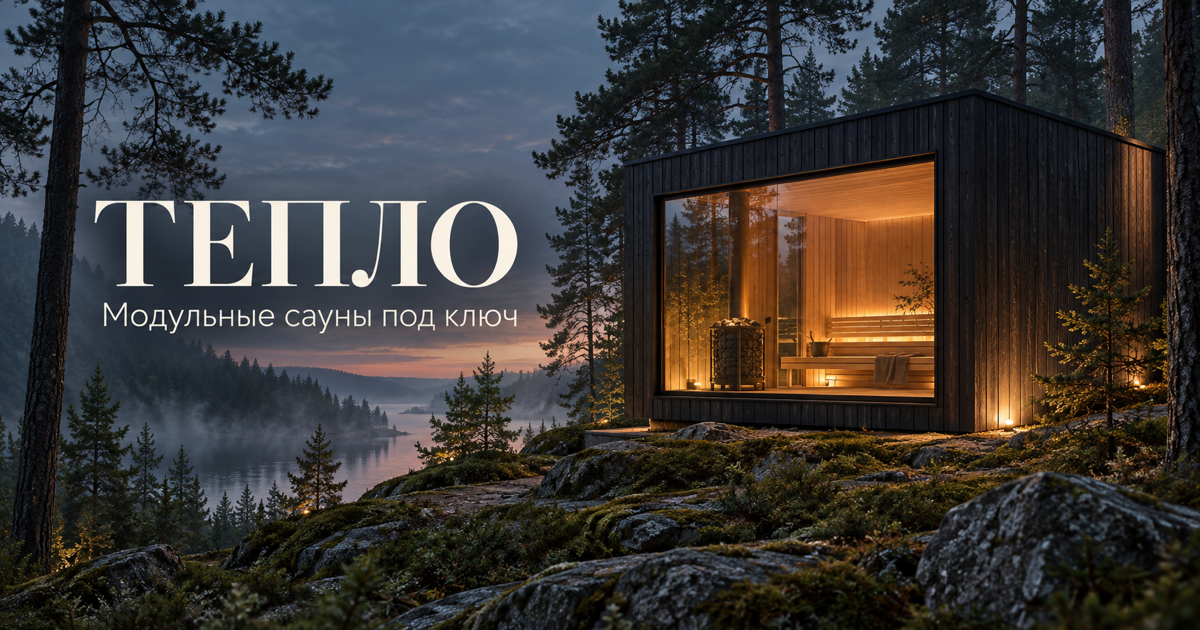
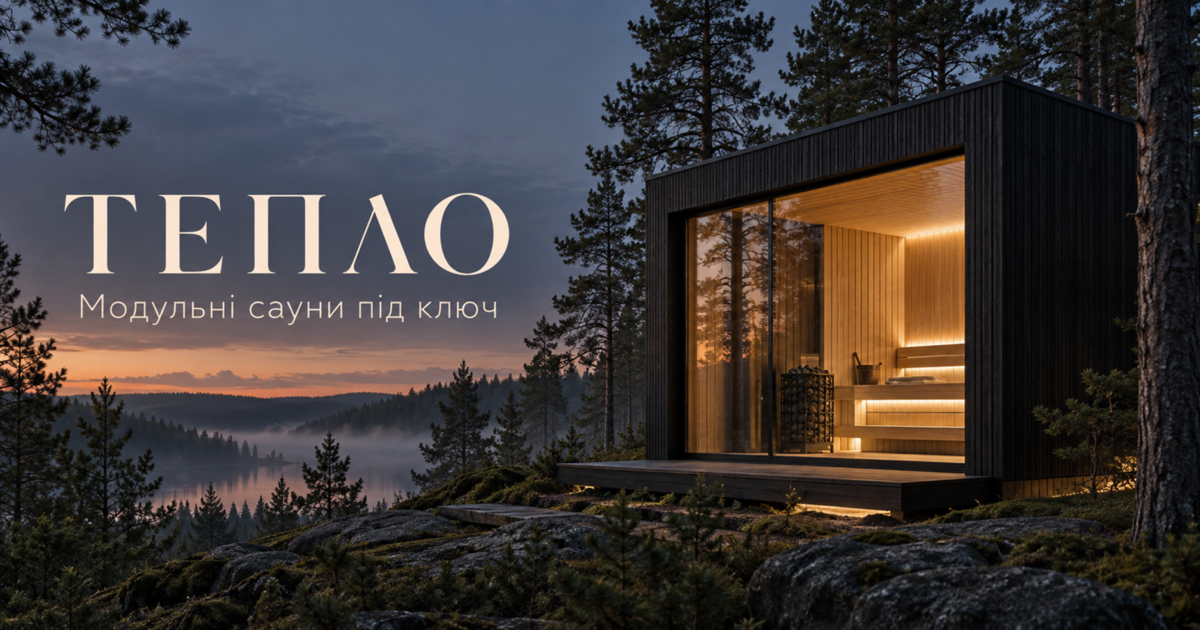
Localize sauna landing page for Ukraine

diff --git a/app/page.tsx b/app/page.tsx
@@ -4,22 +4,22 @@ import { useState } from 'react';
 import { ArrowDown, ArrowRight, ArrowUpRight, Check, Flame, Leaf, Menu, Ruler, ShieldCheck, Sparkles, X } from 'lucide-react';
 
 const models = [
-  { name: 'Тайга 12', area: '12 м²', people: 'до 4 человек', price: 'от 1 890 000 ₽', image: '/images/sauna-exterior.jpg', tag: 'Бестселлер' },
-  { name: 'Север 18', area: '18 м²', people: 'до 6 человек', price: 'от 2 490 000 ₽', image: '/images/sauna-panoramic.jpg', tag: 'Панорамная' },
-  { name: 'Терра 24', area: '24 м²', people: 'до 8 человек', price: 'от 3 290 000 ₽', image: '/images/sauna-dark.jpg', tag: 'С террасой' },
+  { name: 'Карпати 12', area: '12 м²', people: 'до 4 осіб', price: 'від 790 000 ₴', image: '/images/sauna-exterior.jpg', tag: 'Бестселер' },
+  { name: 'Полісся 18', area: '18 м²', people: 'до 6 осіб', price: 'від 1 090 000 ₴', image: '/images/sauna-panoramic.jpg', tag: 'Панорамна' },
+  { name: 'Терра 24', area: '24 м²', people: 'до 8 осіб', price: 'від 1 390 000 ₴', image: '/images/sauna-dark.jpg', tag: 'З терасою' },
 ];
 
 const steps = [
-  ['01', 'Знакомимся', 'Узнаём о вашем участке, сценариях отдыха и пожеланиях к архитектуре.'],
-  ['02', 'Проектируем', 'Адаптируем планировку, материалы и комплектацию. Фиксируем смету.'],
-  ['03', 'Производим', 'Собираем модуль в тёплом цеху с контролем качества на каждом этапе.'],
-  ['04', 'Доставляем', 'Устанавливаем, подключаем коммуникации и проводим первый запуск.'],
+  ['01', 'Знайомимося', 'Дізнаємося про вашу ділянку, сценарії відпочинку та побажання до архітектури.'],
+  ['02', 'Проєктуємо', 'Адаптуємо планування, матеріали й комплектацію. Фіксуємо фінальну вартість.'],
+  ['03', 'Виготовляємо', 'Збираємо модуль у теплому цеху та перевіряємо якість на кожному етапі.'],
+  ['04', 'Доставляємо', 'Встановлюємо, підключаємо комунікації та проводимо перший запуск.'],
 ];
 
 export default function Home() {
   const [menuOpen, setMenuOpen] = useState(false);
   const [sent, setSent] = useState(false);
-  const [selected, setSelected] = useState('Тайга 12');
+  const [selected, setSelected] = useState('Карпати 12');
 
   function submitForm(e: React.FormEvent<HTMLFormElement>) {
     e.preventDefault();
@@ -31,60 +31,60 @@ export default function Home() {
       <section className="hero" id="top">
         <div className="hero-image" aria-hidden="true" /><div className="hero-shade" aria-hidden="true" />
         <header className="site-header shell">
-          <a className="brand" href="#top" aria-label="Тепло — на главную"><span className="brand-mark">Т</span><span>ТЕПЛО</span></a>
-          <nav className="desktop-nav" aria-label="Основная навигация"><a href="#models">Модели</a><a href="#process">Как мы работаем</a><a href="#about">О производстве</a></nav>
-          <a className="header-cta" href="#contact">Обсудить проект <ArrowUpRight size={16} /></a>
-          <button className="menu-btn" onClick={() => setMenuOpen(!menuOpen)} aria-label="Открыть меню" aria-expanded={menuOpen}>{menuOpen ? <X /> : <Menu />}</button>
+          <a className="brand" href="#top" aria-label="Тепло — на головну"><span className="brand-mark">Т</span><span>ТЕПЛО</span></a>
+          <nav className="desktop-nav" aria-label="Основна навігація"><a href="#models">Моделі</a><a href="#process">Як ми працюємо</a><a href="#about">Про виробництво</a></nav>
+          <a className="header-cta" href="#contact">Обговорити проєкт <ArrowUpRight size={16} /></a>
+          <button className="menu-btn" onClick={() => setMenuOpen(!menuOpen)} aria-label="Відкрити меню" aria-expanded={menuOpen}>{menuOpen ? <X /> : <Menu />}</button>
         </header>
-        {menuOpen && <nav className="mobile-menu"><a onClick={() => setMenuOpen(false)} href="#models">Модели</a><a onClick={() => setMenuOpen(false)} href="#process">Процесс</a><a onClick={() => setMenuOpen(false)} href="#contact">Получить расчёт</a></nav>}
+        {menuOpen && <nav className="mobile-menu"><a onClick={() => setMenuOpen(false)} href="#models">Моделі</a><a onClick={() => setMenuOpen(false)} href="#process">Як ми працюємо</a><a onClick={() => setMenuOpen(false)} href="#contact">Отримати розрахунок</a></nav>}
         <div className="hero-content shell">
-          <div className="hero-kicker"><span /> Модульные сауны с доставкой</div>
-          <h1>Тишина,<br />собранная<br />из дерева.</h1>
-          <div className="hero-bottom"><p>Создаём архитектурные сауны под ключ — от первого эскиза до первого пара на вашем участке.</p><a className="primary-btn" href="#contact">Получить расчёт <ArrowUpRight size={18} /></a></div>
+          <div className="hero-kicker"><span /> Виготовлення та доставка по Україні</div>
+          <h1>Тиша,<br />створена<br />з дерева.</h1>
+          <div className="hero-bottom"><div><p>Архітектурні модульні сауни під ключ — готові до першого пару вже за 30 днів.</p><div className="hero-proof"><Check size={15} /> Вартість фіксуємо в договорі</div></div><a className="primary-btn" href="#contact">Отримати прорахунок <ArrowUpRight size={18} /></a></div>
         </div>
-        <a className="scroll-cue" href="#models" aria-label="Прокрутить к моделям"><ArrowDown size={18} /></a><div className="hero-index">01 <span>/</span> 04</div>
+        <a className="scroll-cue" href="#models" aria-label="Перейти до моделей"><ArrowDown size={18} /></a><div className="hero-index">01 <span>/</span> 04</div>
       </section>
 
       <section className="intro shell" id="about">
-        <p className="eyebrow">Продумано до мелочей</p><h2>Не просто сауна.<br /><em>Ваше место силы.</em></h2>
-        <div className="intro-grid"><p>Мы соединяем северную традицию, современную архитектуру и точное производство. Сауна приезжает на участок готовой — вам остаётся только замедлиться.</p><div className="stat"><strong>30</strong><span>дней<br />до установки</span></div><div className="stat"><strong>5</strong><span>лет<br />гарантии</span></div></div>
+        <p className="eyebrow">Продумано до деталей</p><h2>Не просто сауна.<br /><em>Ваше місце сили.</em></h2>
+        <div className="intro-grid"><p>Поєднуємо північну традицію, сучасну архітектуру й точне виробництво. Сауна приїжджає на ділянку готовою — вам залишається лише сповільнитися.</p><div className="stat"><strong>30</strong><span>днів<br />до монтажу</span></div><div className="stat"><strong>5</strong><span>років<br />гарантії</span></div></div>
       </section>
 
       <section className="models-section" id="models">
-        <div className="shell section-head"><div><p className="eyebrow">Коллекция</p><h2>Выберите свой<br /><em>ритм тепла</em></h2></div><p>Три выверенных формата. Каждый можно адаптировать под участок, вид из окна и ваши привычки.</p></div>
+        <div className="shell section-head"><div><p className="eyebrow">Колекція</p><h2>Оберіть свій<br /><em>ритм тепла</em></h2></div><p>Три продумані формати. Кожен адаптуємо під вашу ділянку, краєвид і звички — без переплати за зайве.</p></div>
         <div className="models-grid shell">
           {models.map((model, i) => <article className="model-card" key={model.name}>
-            <div className="model-photo"><img src={model.image} alt={`Модульная сауна ${model.name}`} /><span>{model.tag}</span><div className="model-number">0{i + 1}</div></div>
-            <div className="model-info"><div><h3>{model.name}</h3><p>{model.area} · {model.people}</p></div><div><strong>{model.price}</strong><button onClick={() => { setSelected(model.name); document.querySelector('#contact')?.scrollIntoView(); }} aria-label={`Рассчитать ${model.name}`}><ArrowUpRight /></button></div></div>
+            <div className="model-photo"><img src={model.image} alt={`Модульна сауна ${model.name}`} /><span>{model.tag}</span><div className="model-number">0{i + 1}</div></div>
+            <div className="model-info"><div><h3>{model.name}</h3><p>{model.area} · {model.people}</p></div><div><strong>{model.price}</strong><button onClick={() => { setSelected(model.name); document.querySelector('#contact')?.scrollIntoView(); }} aria-label={`Розрахувати ${model.name}`}><ArrowUpRight /></button></div></div>
           </article>)}
         </div>
       </section>
 
       <section className="craft shell">
-        <div className="craft-image"><img src="/images/sauna-interior.jpg" alt="Интерьер сауны с панорамным окном" /><span>Натуральная термоосина</span></div>
-        <div className="craft-copy"><p className="eyebrow">Честные материалы</p><h2>Тепло, которое<br /><em>чувствуется</em></h2><p>Внутри — только отборное дерево, безопасные пропитки и инженерия, рассчитанная на русскую зиму. Никакой имитации: всё настоящее.</p>
-          <ul><li><Leaf /><span><b>Дерево класса A</b>Без сучков, смолы и химического запаха</span></li><li><Flame /><span><b>Печь Harvia или HUUM</b>Мягкий пар и точное управление</span></li><li><ShieldCheck /><span><b>Всесезонное утепление</b>Комфорт от −35°C до +40°C</span></li></ul>
+        <div className="craft-image"><img src="/images/sauna-interior.jpg" alt="Інтер’єр сауни з панорамним вікном" /><span>Натуральна термоосика</span></div>
+        <div className="craft-copy"><p className="eyebrow">Чесні матеріали</p><h2>Тепло, яке<br /><em>відчувається</em></h2><p>Усередині — добірна деревина, безпечні просочення та інженерія, розрахована на українські зими. Жодної імітації — лише матеріали, що служать роками.</p>
+          <ul><li><Leaf /><span><b>Деревина класу A</b>Без сучків, смоли й хімічного запаху</span></li><li><Flame /><span><b>Піч Harvia або HUUM</b>М’яка пара й точне керування</span></li><li><ShieldCheck /><span><b>Всесезонне утеплення</b>Комфорт від −30°C до +40°C</span></li></ul>
         </div>
       </section>
 
-      <section className="process" id="process"><div className="shell"><div className="section-head light"><div><p className="eyebrow">От идеи до пара</p><h2>Берём всё<br /><em>на себя</em></h2></div><p>Один договор, прозрачная смета и персональный менеджер на всём пути.</p></div><div className="steps">{steps.map(([n,title,text]) => <div className="step" key={n}><span>{n}</span><h3>{title}</h3><p>{text}</p></div>)}</div></div></section>
+      <section className="process" id="process"><div className="shell"><div className="section-head light"><div><p className="eyebrow">Від ідеї до першої пари</p><h2>Беремо все<br /><em>на себе</em></h2></div><p>Один договір, прозорий кошторис і персональний менеджер на всьому шляху.</p></div><div className="steps">{steps.map(([n,title,text]) => <div className="step" key={n}><span>{n}</span><h3>{title}</h3><p>{text}</p></div>)}</div></div></section>
 
-      <section className="panorama"><img src="/images/sauna-dark.jpg" alt="Современный интерьер сауны в тёмном дереве" /><div className="panorama-copy"><Sparkles /><p>Панорамное остекление<br />стирает границу между<br />сауной и природой.</p></div></section>
+      <section className="panorama"><img src="/images/sauna-dark.jpg" alt="Сучасний інтер’єр сауни в темному дереві" /><div className="panorama-copy"><Sparkles /><p>Панорамне скління<br />стирає межу між<br />сауною та природою.</p></div></section>
 
       <section className="contact shell" id="contact">
-        <div className="contact-copy"><p className="eyebrow">Ваш проект начинается здесь</p><h2>Рассчитаем сауну<br /><em>для вашего участка</em></h2><p>Оставьте контакты — специалист позвонит, ответит на вопросы и подготовит предварительный расчёт в течение дня.</p><div className="contact-note"><Ruler /><span>Бесплатно подготовим схему размещения на участке</span></div></div>
+        <div className="contact-copy"><p className="eyebrow">Ваш проєкт починається тут</p><h2>Отримайте ціну<br /><em>для вашої ділянки</em></h2><p>Залиште контакти — архітектор зателефонує, відповість на запитання та підготує персональний розрахунок протягом робочого дня.</p><div className="contact-note"><Ruler /><span>Безкоштовно підготуємо схему розміщення на ділянці</span></div></div>
         <div className="form-card">
-          {sent ? <div className="success"><span><Check /></span><h3>Заявка уже у нас</h3><p>Спасибо! Свяжемся с вами в рабочее время и всё спокойно обсудим.</p><button onClick={() => setSent(false)}>Отправить ещё одну</button></div> : <form onSubmit={submitForm}>
-            <div className="form-top"><span>Короткая форма</span><span>≈ 1 минута</span></div>
-            <label>Как к вам обращаться?<input name="name" placeholder="Ваше имя" required /></label>
-            <label>Телефон<input name="phone" type="tel" placeholder="+7 (___) ___-__-__" required /></label>
-            <fieldset><legend>Интересующая модель</legend><div className="model-options">{models.map(m => <button type="button" className={selected === m.name ? 'active' : ''} onClick={() => setSelected(m.name)} key={m.name}>{m.name}</button>)}</div></fieldset>
-            <button className="submit-btn" type="submit">Получить расчёт <ArrowRight /></button><small>Нажимая кнопку, вы соглашаетесь с политикой конфиденциальности</small>
+          {sent ? <div className="success"><span><Check /></span><h3>Заявка вже у нас</h3><p>Дякуємо! Зв’яжемося з вами в робочий час і спокійно все обговоримо.</p><button onClick={() => setSent(false)}>Надіслати ще одну</button></div> : <form onSubmit={submitForm}>
+            <div className="form-top"><span>Коротка форма</span><span>≈ 1 хвилина</span></div>
+            <label>Як до вас звертатися?<input name="name" placeholder="Ваше ім’я" required /></label>
+            <label>Телефон<input name="phone" type="tel" placeholder="+380 (__) ___-__-__" required /></label>
+            <fieldset><legend>Модель, яка вас цікавить</legend><div className="model-options">{models.map(m => <button type="button" className={selected === m.name ? 'active' : ''} onClick={() => setSelected(m.name)} key={m.name}>{m.name}</button>)}</div></fieldset>
+            <button className="submit-btn" type="submit">Отримати прорахунок <ArrowRight /></button><small>Натискаючи кнопку, ви погоджуєтеся з політикою конфіденційності</small>
           </form>}
         </div>
       </section>
 
-      <footer><div className="shell footer-top"><div className="brand"><span className="brand-mark">Т</span><span>ТЕПЛО</span></div><p>Модульные сауны,<br />в которых хочется остаться.</p><a href="#top">Наверх <ArrowUpRight /></a></div><div className="shell footer-bottom"><span>© 2026 ТЕПЛО</span><span>Москва · Санкт-Петербург · доставка по России</span><span>+7 800 555-24-24</span></div></footer>
+      <footer><div className="shell footer-top"><div className="brand"><span className="brand-mark">Т</span><span>ТЕПЛО</span></div><p>Модульні сауни,<br />в яких хочеться залишитися.</p><a href="#top">Нагору <ArrowUpRight /></a></div><div className="shell footer-bottom"><span>© 2026 ТЕПЛО</span><span>Київ · Львів · доставка по Україні</span><span>+380 800 555 24 24</span></div></footer>
     </main>
   );
 }

diff --git a/app/globals.css b/app/globals.css
@@ -30,6 +30,8 @@ a { color: inherit; text-decoration: none; }
 h1 { margin: 0; max-width: 900px; font-family: Georgia, 'Times New Roman', serif; font-size: clamp(66px, 9.5vw, 146px); font-weight: 400; line-height: .82; letter-spacing: -.055em; }
 .hero-bottom { margin-top: clamp(36px, 6vh, 80px); display: flex; align-items: end; gap: 56px; }
 .hero-bottom p { max-width: 430px; margin: 0; font-size: 16px; line-height: 1.6; color: rgba(255,255,255,.8); }
+.hero-proof { display: flex; align-items: center; gap: 9px; margin-top: 15px; color: rgba(255,255,255,.7); font-size: 11px; text-transform: uppercase; letter-spacing: .08em; }
+.hero-proof svg { color: var(--ember); }
 .primary-btn { display: inline-flex; align-items: center; justify-content: space-between; gap: 44px; min-width: 236px; padding: 20px 22px; background: var(--ember); color: white; font-size: 12px; text-transform: uppercase; letter-spacing: .08em; transition: background .2s, transform .2s; }
 .primary-btn:hover { background: #bb5635; transform: translateY(-2px); }
 .scroll-cue { position: absolute; z-index: 2; bottom: 0; right: 48px; width: 64px; height: 64px; display: grid; place-items: center; border: 1px solid rgba(250,248,242,.25); }
@@ -133,4 +135,31 @@ footer { padding: 74px 0 30px; background: #111a16; color: white; }
   .process { padding-block: 88px; } .steps { grid-template-columns: 1fr; } .step, .step + .step { min-height: auto; padding: 28px 0; border-right: 0; border-bottom: 1px solid rgba(255,255,255,.2); } .step h3 { margin: 36px 0 12px; }
   .panorama { height: 70vh; } .panorama-copy { left: 24px; right: 24px; } .contact { padding-block: 88px; grid-template-columns: 1fr; gap: 56px; } .form-card { margin-inline: -8px; padding: 30px 24px; }
   .footer-top { grid-template-columns: 1fr auto; gap: 34px; } .footer-top p { grid-column: 1 / -1; grid-row: 2; } .footer-bottom { flex-direction: column; gap: 13px; }
+}
+@media (max-width: 520px) {
+  .shell { width: calc(100% - 32px); }
+  .hero { min-height: 760px; }
+  .hero-image { background-position: 61% center; }
+  .hero-shade { background: linear-gradient(90deg, rgba(9,16,13,.78), rgba(9,16,13,.25)), linear-gradient(0deg, rgba(9,16,13,.58), transparent 62%); }
+  .brand { font-size: 12px; }
+  .brand-mark { width: 30px; height: 30px; }
+  .hero-content { padding-top: 90px; }
+  .hero-kicker { max-width: 280px; font-size: 9px; line-height: 1.5; }
+  h1 { font-size: clamp(54px, 18vw, 76px); line-height: .9; }
+  .hero-bottom { margin-top: 38px; }
+  .hero-bottom p { max-width: 330px; font-size: 14px; }
+  .primary-btn { width: 100%; min-width: 0; padding: 18px; gap: 20px; }
+  .intro h2, .section-head h2, .craft h2, .process h2, .contact h2 { font-size: 48px; }
+  .intro-grid { grid-template-columns: 1fr; }
+  .intro-grid > p { grid-column: auto; }
+  .stat { padding-top: 16px; border-top: 1px solid #cbc4b8; }
+  .model-info { padding: 20px 18px; }
+  .model-info h3 { font-size: 27px; }
+  .model-info strong { white-space: nowrap; font-size: 11px; }
+  .craft-image > span { left: -8px; bottom: 18px; }
+  .panorama-copy p { font-size: 36px; }
+  .form-card { min-height: 0; }
+  form input { font-size: 21px; }
+  .model-options button { flex: 1 1 45%; }
+  .footer-top > a { font-size: 10px; }
 }

diff --git a/app/layout.tsx b/app/layout.tsx
@@ -14,18 +14,18 @@ const geistMono = Geist_Mono({
 
 export const metadata: Metadata = {
   metadataBase: new URL('https://teplo-modular-sauna.mew-77.chatgpt.site'),
-  title: 'ТЕПЛО — модульные сауны под ключ',
-  description: 'Производим архитектурные модульные сауны и доставляем готовыми на ваш участок.',
+  title: 'ТЕПЛО — модульні сауни під ключ в Україні',
+  description: 'Виготовляємо архітектурні модульні сауни та доставляємо готовими на вашу ділянку по Україні.',
   openGraph: {
-    title: 'ТЕПЛО — модульные сауны под ключ',
-    description: 'Архитектурные сауны: производство, доставка и установка на вашем участке.',
+    title: 'ТЕПЛО — модульні сауни під ключ',
+    description: 'Виготовлення, доставка та монтаж сучасних модульних саун по Україні.',
     type: 'website',
-    images: [{ url: '/og.png', width: 1200, height: 630, alt: 'ТЕПЛО — модульные сауны под ключ' }],
+    images: [{ url: '/og.png', width: 1200, height: 630, alt: 'ТЕПЛО — модульні сауни під ключ' }],
   },
   twitter: {
     card: 'summary_large_image',
-    title: 'ТЕПЛО — модульные сауны под ключ',
-    description: 'Архитектурные сауны: производство, доставка и установка на вашем участке.',
+    title: 'ТЕПЛО — модульні сауни під ключ',
+    description: 'Виготовлення, доставка та монтаж сучасних модульних саун по Україні.',
     images: ['/og.png'],
   },
 };
@@ -36,7 +36,7 @@ export default function RootLayout({
   children: React.ReactNode;
 }>) {
   return (
-    <html lang="ru">
+    <html lang="uk">
       <body
         className={`${geistSans.variable} ${geistMono.variable} antialiased`}
       >
